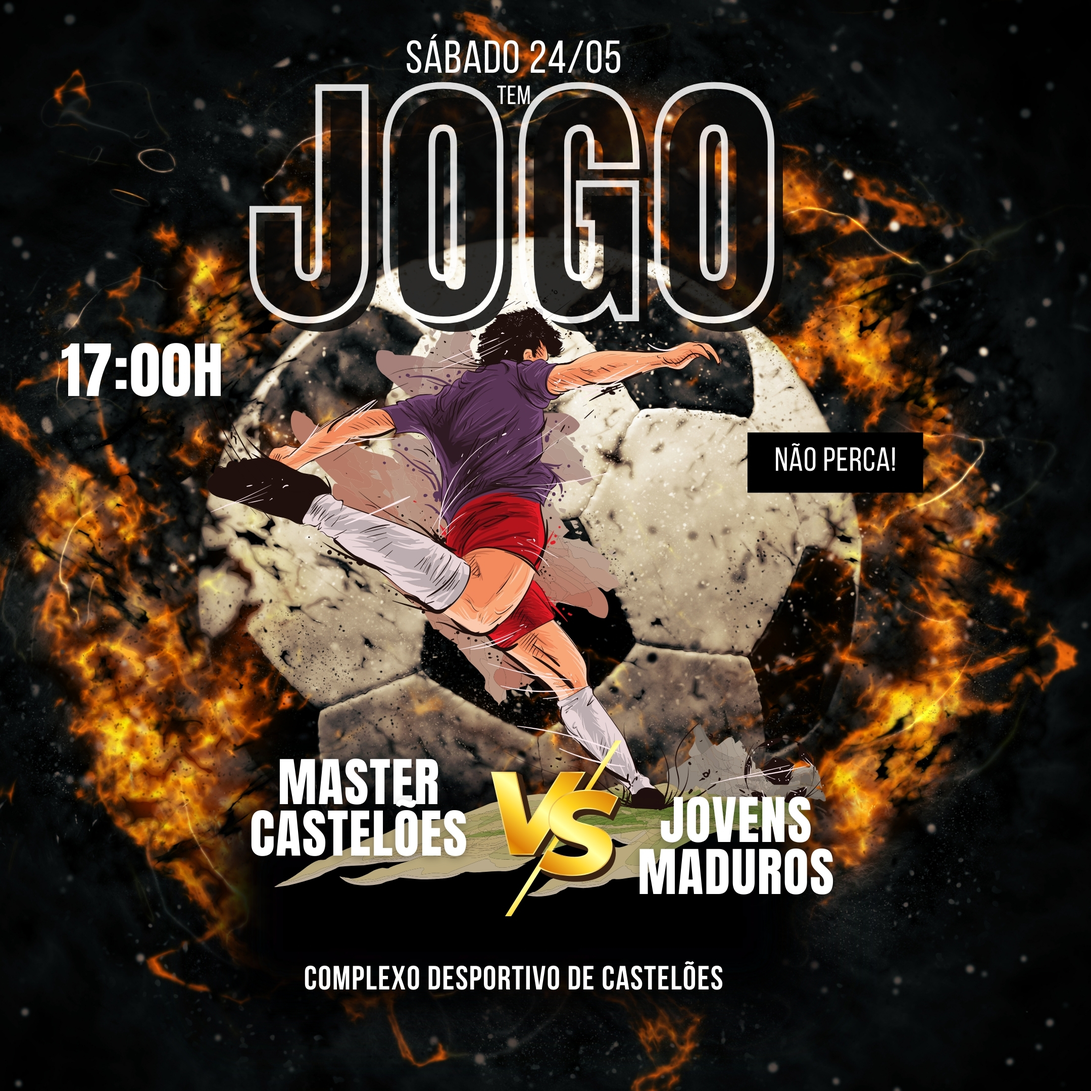
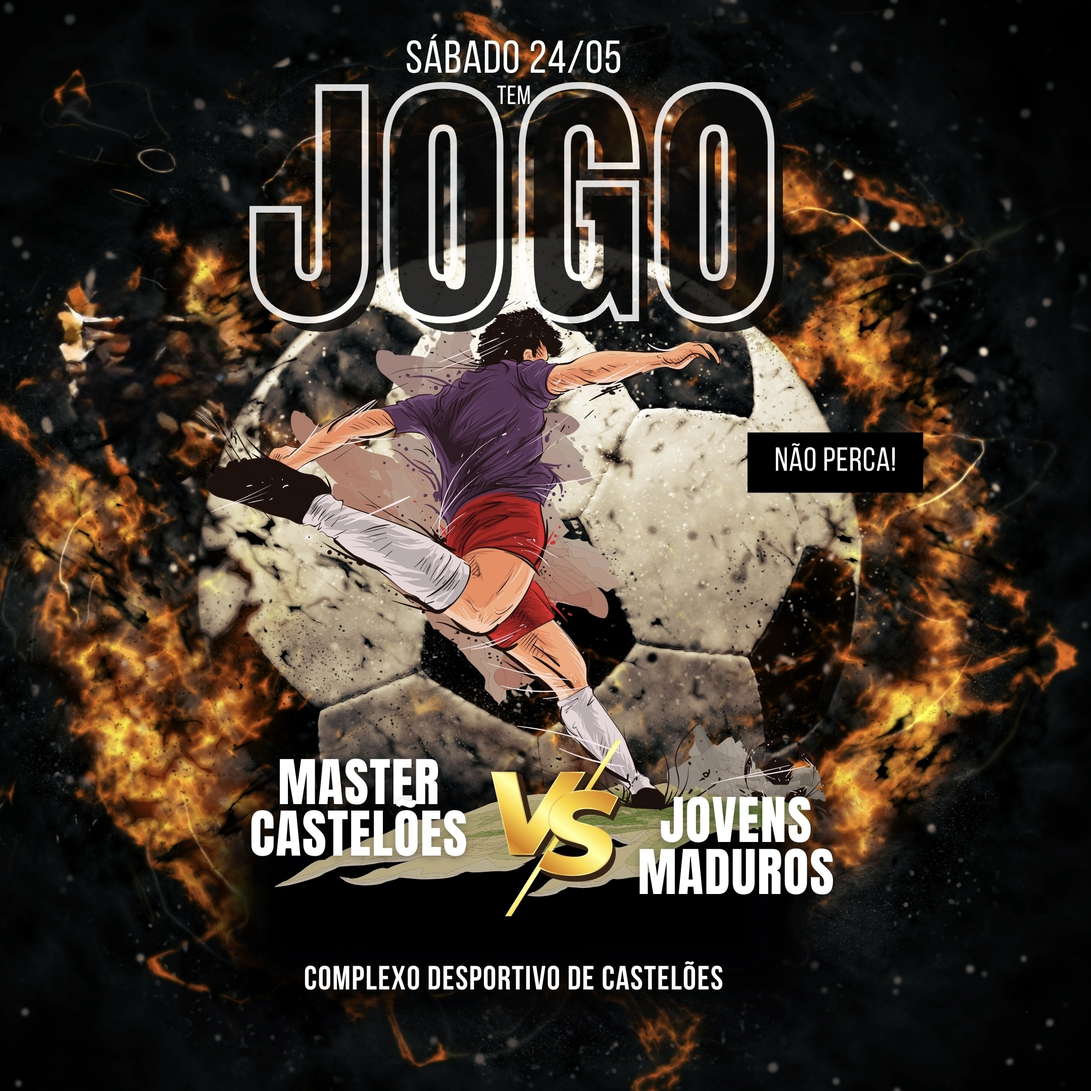
correção evento

diff --git a/data/eventos.js b/data/eventos.js
@@ -26,7 +26,7 @@ export const eventos = [
   {
     nome: "Master Castelões vs Jovens Maduros",
     slug: "jogo-dos-veteranos-2025",
-    hora: "17:00h",
+    hora: "18:00h",
     data: "24/05/2025",
     descricao:
       "Não faltes ao grande duelo entre os Master Castelões e os Jovens Maduros!",
